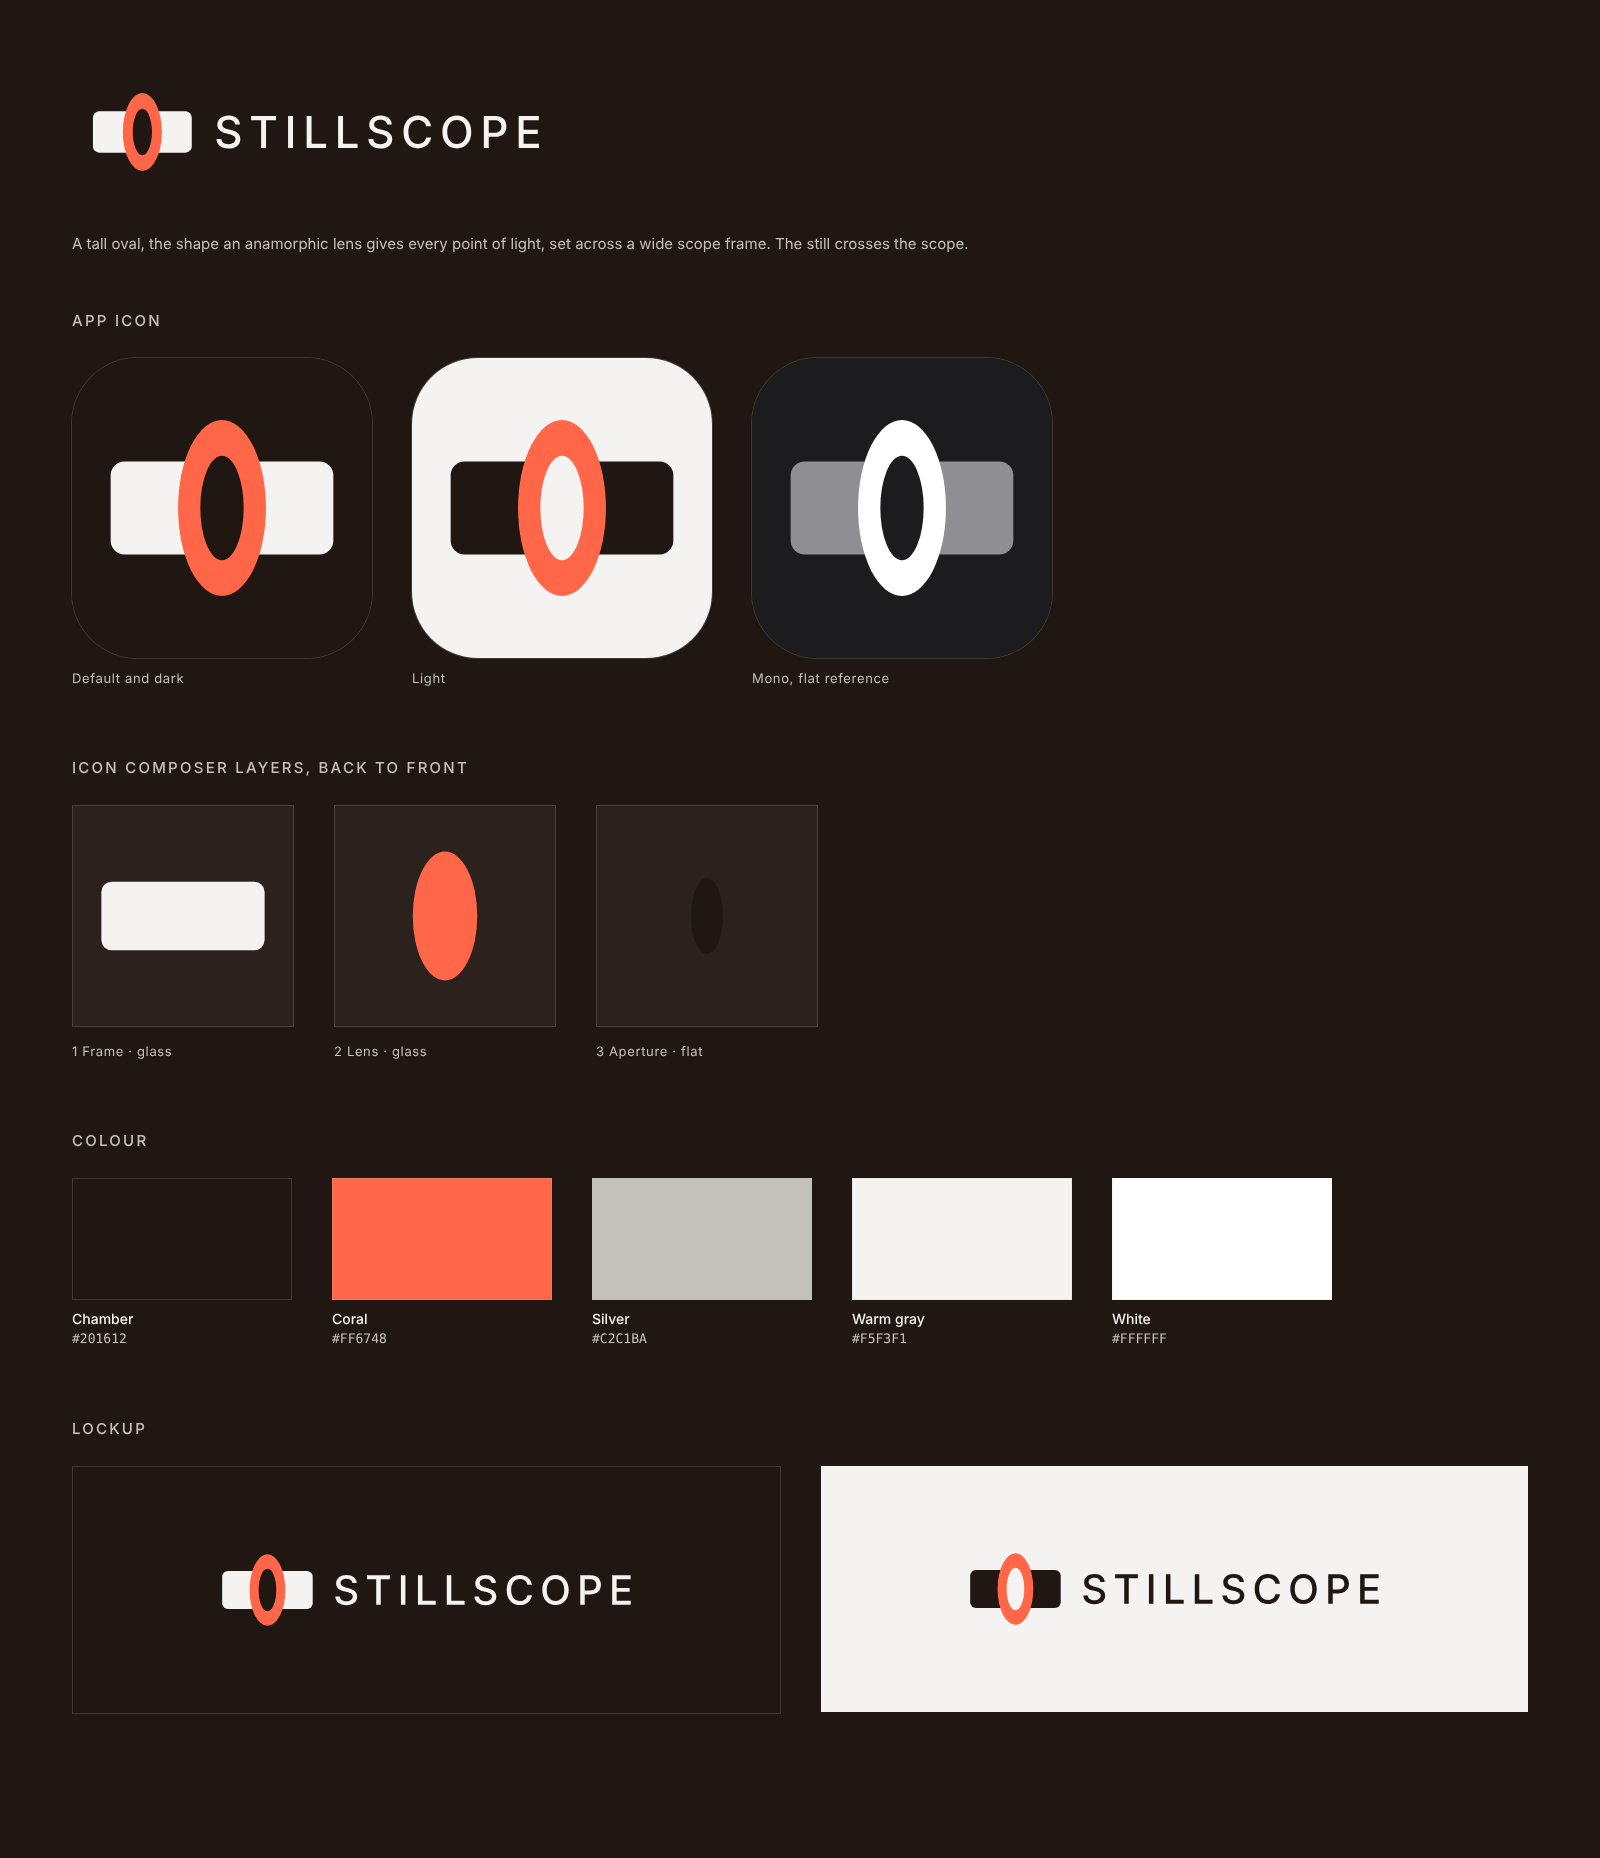
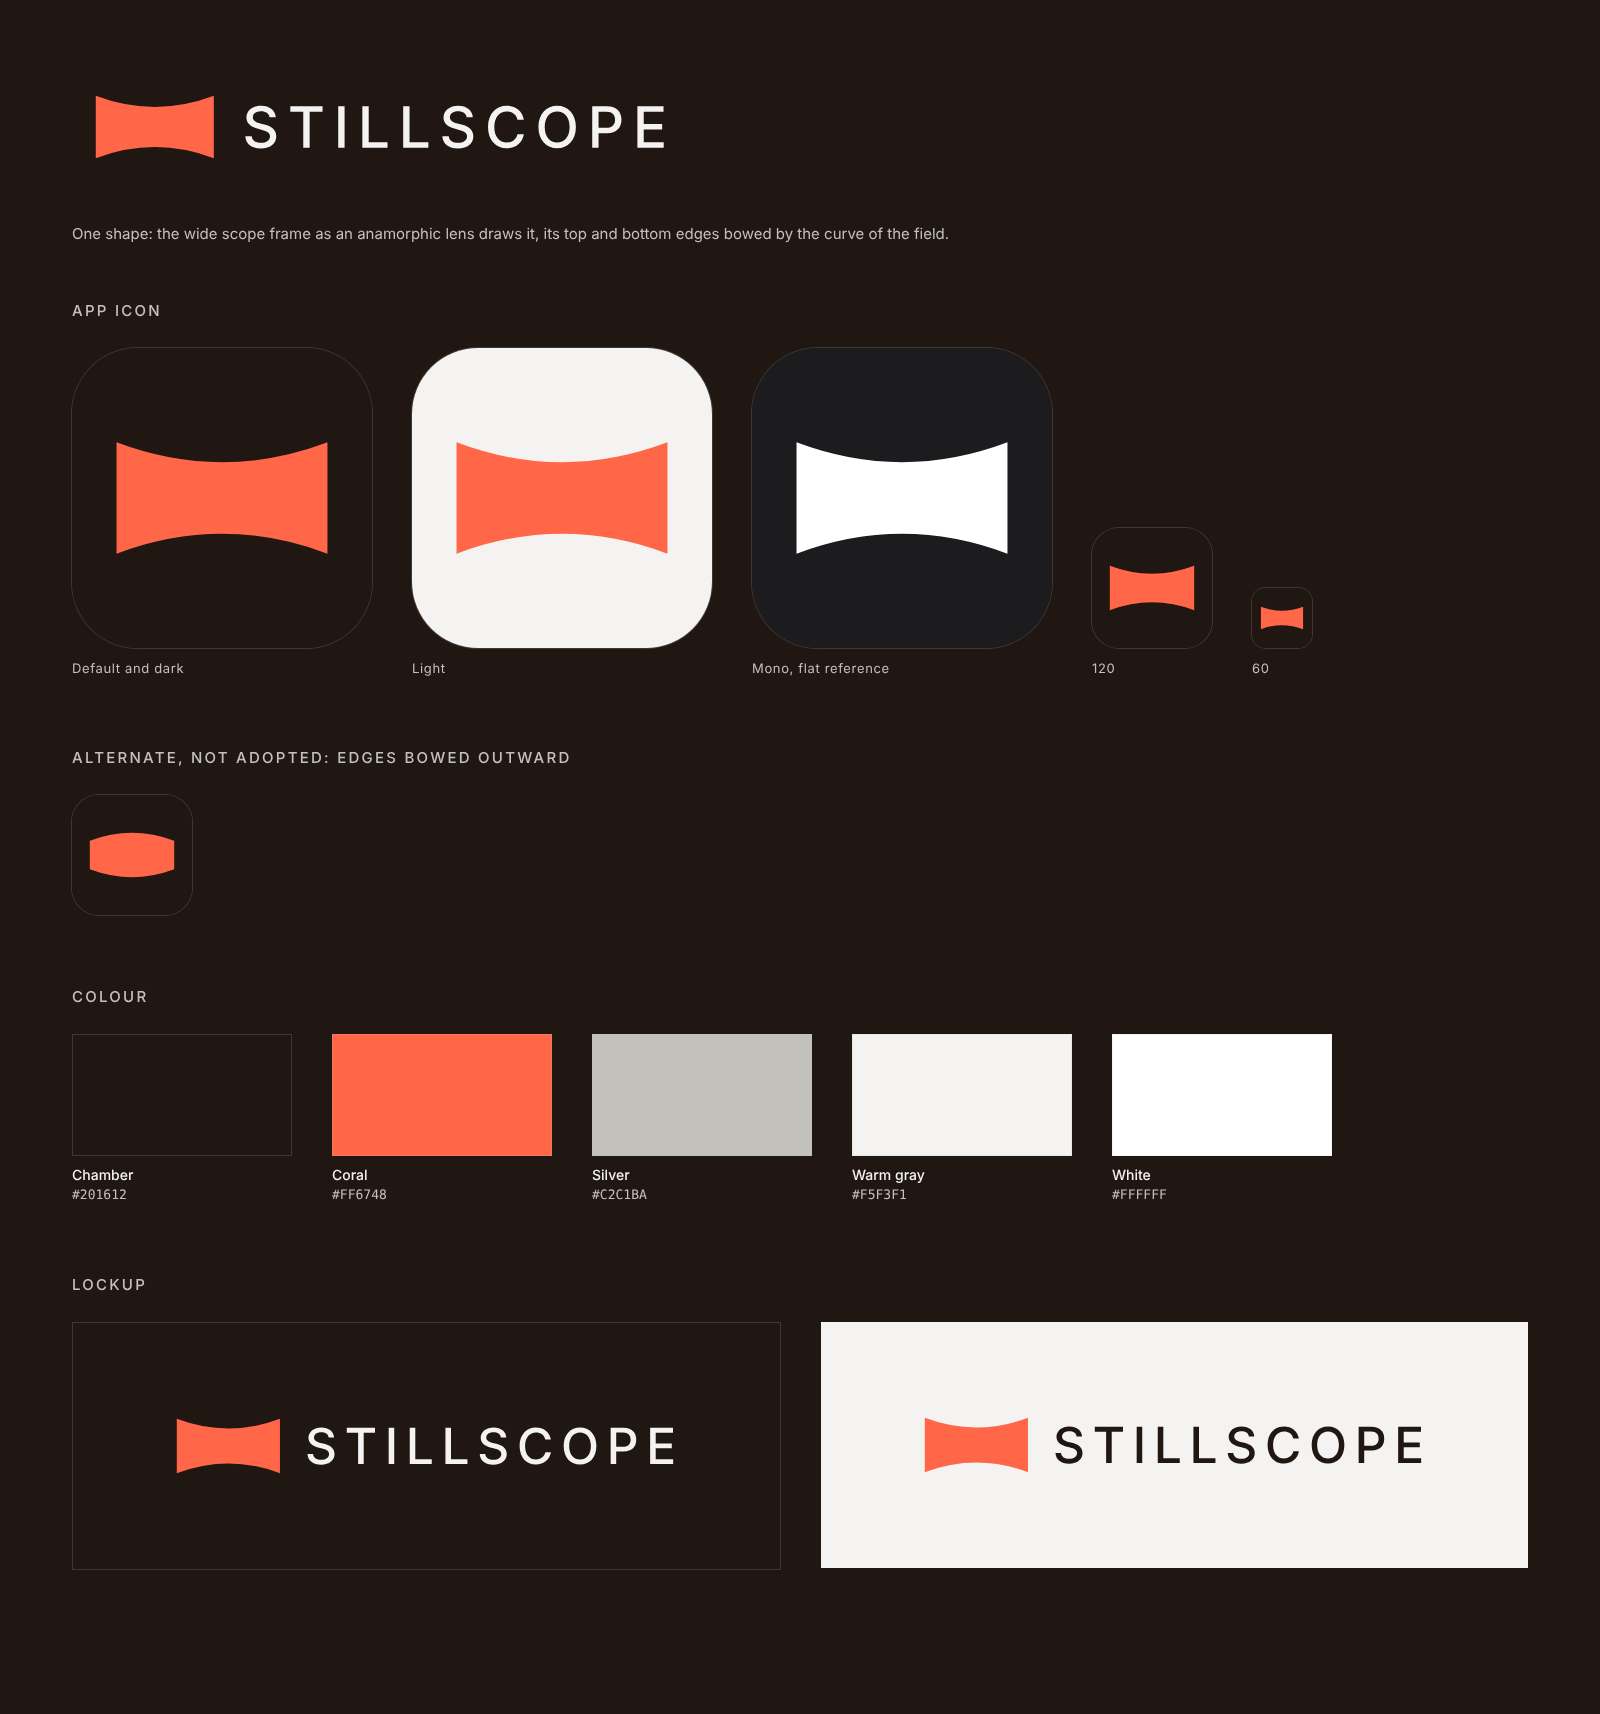
Rebuild the StillScope mark as a single curved-field shape
The first mark had three parts. It is now one coral shape: a wide frame
with straight sides and top and bottom edges bowed toward the centre,
the curve of an anamorphic field. The Icon Composer package is a single
layer, and the iOS app icon, wordmark lockups and brand sheet follow.

Claude-Session: https://claude.ai/code/session_018gm1rjgcxnLebMNrXuqSt5

diff --git a/brand/StillScope/README.md b/brand/StillScope/README.md
@@ -13,9 +13,10 @@ what the tool is for.
 
 ## The mark
 
-A tall oval set across a wide frame. An anamorphic lens renders every point of
-light as a tall oval, and the frame is the scope picture it produces. The oval
-is twice as tall as it is wide, which is the 2× squeeze. The frame is 2.39:1.
+One shape: the wide scope frame as an anamorphic lens draws it. The sides
+stand straight and the top and bottom edges bow toward the centre, which is
+the curve of an anamorphic field and the shape of a curved scope screen. It is
+always coral.
 
 ## Colour
 
@@ -23,10 +24,10 @@ Taken from the Chambers & Light brand guide.
 
 | Name      | Hex       | Use                                         |
 |-----------|-----------|---------------------------------------------|
-| Chamber   | `#201612` | Ground, icon background, aperture           |
-| Coral     | `#FF6748` | The lens. One accent per surface.           |
+| Chamber   | `#201612` | Ground, icon background                     |
+| Coral     | `#FF6748` | The mark. One accent per surface.           |
 | Silver    | `#C2C1BA` | Secondary text, hairlines                   |
-| Warm gray | `#F5F3F1` | The frame on dark, the ground on light      |
+| Warm gray | `#F5F3F1` | Wordmark on dark, the ground on light       |
 | White     | `#FFFFFF` | Primary text on Chamber                     |
 
 ## Type
@@ -42,22 +43,15 @@ Apple's Icon Composer builds a Liquid Glass icon from flat layers. It adds the
 glass, highlights, shadows and the dark, clear and tinted variants itself, so
 the layers here carry shape and colour only: no gradients, shadows or masks.
 
-`icon/layers/` holds three 1024 × 1024 SVG layers, back to front:
-
-| File             | Layer    | Suggested setting in Icon Composer           |
-|------------------|----------|----------------------------------------------|
-| `1-frame.svg`    | Frame    | Glass on, some translucency, neutral shadow  |
-| `2-lens.svg`     | Lens     | Glass on, in its own group above the frame   |
-| `3-aperture.svg` | Aperture | Glass off, top group, so it reads as a hole  |
-
-Set the background fill to Chamber `#201612`.
+`icon/layers/field.svg` is the whole icon: one 1024 × 1024 layer holding the
+coral shape. Set the background fill to Chamber `#201612`.
 
 To build the icon:
 
 1. Open Icon Composer, from Xcode's menu under Open Developer Tool.
-2. Drag the three SVG files into the sidebar and order them as above, each in
-   its own group.
-3. Set the background colour and the settings in the table.
+2. Drag `field.svg` into the sidebar.
+3. Set the background colour. Turn glass on for the layer, with a little
+   translucency and a shadow in the layer's own colour.
 4. Check the Default, Dark, Clear and Tinted previews, then save as
    `AppIcon.icon` and add that file to the Xcode project.
 
@@ -70,8 +64,10 @@ uses the dark and light PNGs as its icon until the composed icon replaces them.
 
 ## Wordmark and lockup
 
-`wordmark/` holds the mark alone, the wordmark alone and the two together, each
-for dark and light grounds. All are SVG with outlined type.
+`wordmark/` holds the mark alone, the wordmark alone and the two together. The
+wordmark and lockup come for dark and light grounds; the mark is the same on
+both. All are SVG with outlined type.
 
-Keep clear space around the lockup equal to the height of the frame. Do not
-recolour the lens, stretch the mark, or set the name in mixed weights.
+Keep clear space around the lockup equal to the height of the mark. Do not
+recolour the mark, straighten or reverse its curve, or set the name in mixed
+weights.
